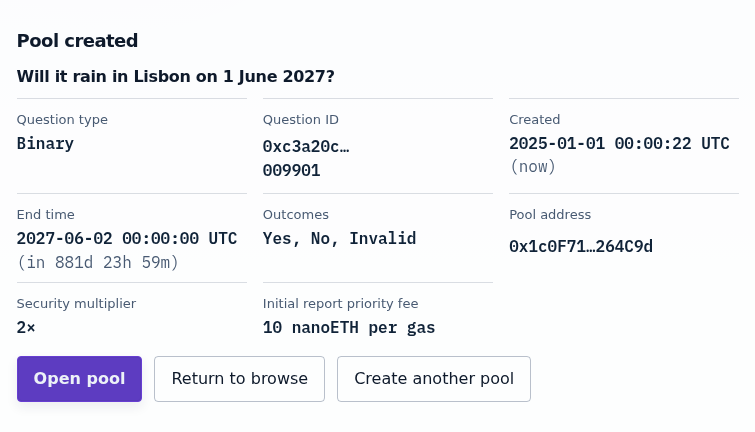
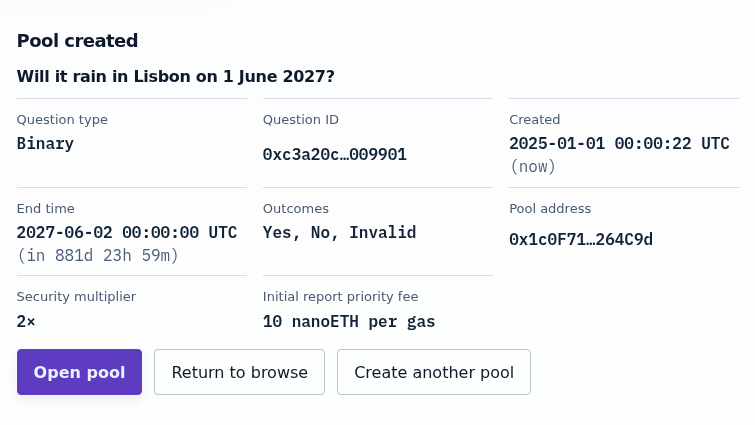
Show full UI addresses whenever space allows

diff --git a/ui/coreShared/ts/components/AddressValue.tsx b/ui/coreShared/ts/components/AddressValue.tsx
@@ -15,8 +15,6 @@ export type AddressWidthConstraint = {
 
 type AddressValueProps = {
 	address: string | undefined
-	/** Always shows the abbreviated form, for addresses inline in running text where the responsive form's reserved full width would leave a gap. The full address stays in the title and copy label. */
-	alwaysAbbreviated?: boolean
 	className?: string
 	compactAbbreviation?: boolean
 	copyable?: boolean
@@ -24,7 +22,7 @@ type AddressValueProps = {
 	widthConstraint?: AddressWidthConstraint | undefined
 }
 
-function AddressText({ address, alwaysAbbreviated, compactAbbreviation, responsiveAbbreviation, widthConstraint }: { address: string; alwaysAbbreviated: boolean; compactAbbreviation: boolean; responsiveAbbreviation: boolean; widthConstraint?: AddressWidthConstraint | undefined }) {
+function AddressText({ address, compactAbbreviation, responsiveAbbreviation, widthConstraint }: { address: string; compactAbbreviation: boolean; responsiveAbbreviation: boolean; widthConstraint?: AddressWidthConstraint | undefined }) {
 	const container = useRef<HTMLSpanElement>(null)
 	const full = useRef<HTMLSpanElement>(null)
 	const [abbreviated, setAbbreviated] = useState(false)
@@ -47,7 +45,6 @@ function AddressText({ address, alwaysAbbreviated, compactAbbreviation, responsi
 		if (widthConstraint?.control.current) observer.observe(widthConstraint.control.current)
 		return () => observer.disconnect()
 	}, [address, responsiveAbbreviation, widthConstraint])
-	if (alwaysAbbreviated) return <>{compactAbbreviation ? abbreviateAddress(address, 6, 4) : abbreviateAddress(address)}</>
 	if (!responsiveAbbreviation) return <>{address}</>
 	return (
 		<span className={`address-value-text${widthConstraint === undefined ? '' : ' address-value-fit-content'}`} data-abbreviated={abbreviated} ref={container}>
@@ -61,7 +58,7 @@ function AddressText({ address, alwaysAbbreviated, compactAbbreviation, responsi
 	)
 }
 
-export function ReadOnlyAddressValue({ address, alwaysAbbreviated = false, className = '', compactAbbreviation = false, responsiveAbbreviation = true, widthConstraint }: Omit<AddressValueProps, 'copyable'>) {
+export function ReadOnlyAddressValue({ address, className = '', compactAbbreviation = false, responsiveAbbreviation = true, widthConstraint }: Omit<AddressValueProps, 'copyable'>) {
 	if (address === undefined) {
 		const placeholder = getMetricPlaceholderPresentation(address)?.placeholder
 		return (
@@ -72,15 +69,15 @@ export function ReadOnlyAddressValue({ address, alwaysAbbreviated = false, class
 	}
 	return (
 		<span className={`address-value ${className}`} title={address}>
-			<AddressText address={address} alwaysAbbreviated={alwaysAbbreviated} compactAbbreviation={compactAbbreviation} responsiveAbbreviation={responsiveAbbreviation} widthConstraint={widthConstraint} />
+			<AddressText address={address} compactAbbreviation={compactAbbreviation} responsiveAbbreviation={responsiveAbbreviation} widthConstraint={widthConstraint} />
 		</span>
 	)
 }
 
-export function AddressValue({ address, alwaysAbbreviated = false, className = '', compactAbbreviation = false, copyable = true, responsiveAbbreviation = true, widthConstraint }: AddressValueProps) {
+export function AddressValue({ address, className = '', compactAbbreviation = false, copyable = true, responsiveAbbreviation = true, widthConstraint }: AddressValueProps) {
 	const { copied, copyError, copyErrorId, copyText } = useCopyToClipboard(address)
 
-	if (address === undefined || !copyable) return <ReadOnlyAddressValue address={address} alwaysAbbreviated={alwaysAbbreviated} className={className} compactAbbreviation={compactAbbreviation} responsiveAbbreviation={responsiveAbbreviation} widthConstraint={widthConstraint} />
+	if (address === undefined || !copyable) return <ReadOnlyAddressValue address={address} className={className} compactAbbreviation={compactAbbreviation} responsiveAbbreviation={responsiveAbbreviation} widthConstraint={widthConstraint} />
 
 	return (
 		<span className='copy-value-wrap'>
@@ -90,7 +87,7 @@ export function AddressValue({ address, alwaysAbbreviated = false, className = '
 						{commonCopy.copiedAddress}
 					</span>
 				) : (
-					<AddressText address={address} alwaysAbbreviated={alwaysAbbreviated} compactAbbreviation={compactAbbreviation} responsiveAbbreviation={responsiveAbbreviation} widthConstraint={widthConstraint} />
+					<AddressText address={address} compactAbbreviation={compactAbbreviation} responsiveAbbreviation={responsiveAbbreviation} widthConstraint={widthConstraint} />
 				)}
 			</button>
 			<CopyErrorMessage id={copyErrorId} manualValue={address} message={copyError.value} />

diff --git a/ui/statoblastShared/css/index.css b/ui/statoblastShared/css/index.css
@@ -3416,22 +3416,6 @@ span.rep-price-status.stale,
 	text-decoration: none;
 }
 
-.created-pool-summary .address-value-full {
-	display: none;
-}
-
-/* The summary always shows the short form, so it must also override the base rule that hides it until measurement
-   chooses abbreviation; otherwise neither form is visible. */
-.created-pool-summary .address-value-abbreviated {
-	display: inline;
-	visibility: visible;
-}
-
-/* Its measurement box is sized for the hidden full form, so let the short form show whole. */
-.created-pool-summary .address-value-text {
-	overflow: visible;
-}
-
 .existing-pool-identifiers {
 	display: grid;
 	grid-template-columns: repeat(2, minmax(0, 1fr));
@@ -3461,14 +3445,6 @@ span.rep-price-status.stale,
 @media (max-width: 40rem) {
 	.existing-pool-identifiers {
 		grid-template-columns: minmax(0, 1fr);
-	}
-
-	.existing-pool-identifiers .address-value-full {
-		display: none;
-	}
-
-	.existing-pool-identifiers .address-value-abbreviated {
-		display: inline;
 	}
 }
 
@@ -3866,9 +3842,10 @@ span.rep-price-status.stale,
 	}
 }
 
-/* Copyable addresses and identifiers keep their hover padding outside the text column, so their first character lines up with the labels and values around them. Addresses inline in running text have no hover padding to offset. */
+/* Keep hover padding outside the text column. Balance the negative start margin so the copy wrapper reserves the full control width instead of needlessly abbreviating its address. Inline addresses have no hover padding to offset. */
 :is(.route-view-flow, .modal-panel) :is(.address-value, .identifier-value).copyable:not(.transaction-object-context *, .global-transaction-detail-text *) {
 	margin-inline-start: -0.25rem;
+	margin-inline-end: 0.25rem;
 }
 
 /* Inline warnings (a clamped liquidation, a withdrawal that empties the vault, a lifecycle blocker) share one quiet warning treatment. */
@@ -3998,7 +3975,7 @@ span.rep-price-status.stale,
 	align-self: start;
 }
 
-/* Security pool UX fixes: next-action buttons, vault liquidation reasons, and the abbreviated vault address. */
+/* Security pool UX fixes: next-action buttons and vault liquidation reasons. */
 .pool-action-open {
 	display: inline-flex;
 	align-items: center;
@@ -4011,9 +3988,4 @@ span.rep-price-status.stale,
 
 .vault-position-strip-actions .vault-liquidation-reason {
 	margin-top: var(--space-2);
-}
-
-/* The record names the vault by its abbreviated address; the copy button still copies the full address. */
-.selected-vault-address .address-value {
-	max-width: min(100%, 12rem);
 }

diff --git a/ui/coreShared/ts/components/TransactionPresentationNotice.tsx b/ui/coreShared/ts/components/TransactionPresentationNotice.tsx
@@ -1,6 +1,7 @@
 import * as commonCopy from '../copy/common.js'
 import * as transactionCopy from '../copy/transaction.js'
-import type { ComponentChildren } from 'preact'
+import type { ComponentChildren, RefObject } from 'preact'
+import { useMemo, useRef } from 'preact/hooks'
 import { Badge } from './Badge.js'
 import { ReadOnlyDetailAccordion } from './ReadOnlyDetailAccordion.js'
 import { TransactionHashLink } from './TransactionHashLink.js'
@@ -37,7 +38,7 @@ function parseAddressDetailValue(value: ComponentChildren) {
 
 const embeddedAddressPattern = /(0x[0-9a-fA-F]{40})(?![0-9a-fA-F])/
 
-/** Splits text such as a call's argument list so each embedded address abbreviates in place instead of wrapping into a narrow column. */
+/** Splits a call's argument list so embedded addresses use the shared responsive presentation. */
 function splitEmbeddedAddresses(value: string) {
 	return value
 		.split(embeddedAddressPattern)
@@ -45,10 +46,25 @@ function splitEmbeddedAddresses(value: string) {
 		.map(segment => ({ isAddress: /^0x[0-9a-fA-F]{40}$/.test(segment), segment }))
 }
 
+function TransactionDetailAddress({ address, slot }: { address: string; slot: RefObject<HTMLElement> }) {
+	const control = useRef<HTMLSpanElement>(null)
+	const widthConstraint = useMemo(() => ({ slot, control }), [slot, control])
+	return (
+		<span className='global-transaction-detail-address' ref={control}>
+			<AddressValue address={address} widthConstraint={widthConstraint} />
+		</span>
+	)
+}
+
 function TransactionDetailText({ value }: { value: string }) {
+	const slot = useRef<HTMLSpanElement>(null)
 	const segments = splitEmbeddedAddresses(value)
 	if (!segments.some(({ isAddress }) => isAddress)) return <>{value}</>
-	return <span className='global-transaction-detail-text'>{segments.map(({ isAddress, segment }, index) => (isAddress ? <AddressValue key={index} address={segment} alwaysAbbreviated /> : <span key={index}>{segment}</span>))}</span>
+	return (
+		<span className='global-transaction-detail-text' ref={slot}>
+			{segments.map(({ isAddress, segment }, index) => (isAddress ? <TransactionDetailAddress key={index} address={segment} slot={slot} /> : <span key={index}>{segment}</span>))}
+		</span>
+	)
 }
 
 function TransactionDetailValue({ value }: { value: ComponentChildren }) {

diff --git a/ui/statoblast/ts/tests/app/globalTransactionDialog.test.tsx b/ui/statoblast/ts/tests/app/globalTransactionDialog.test.tsx
@@ -484,7 +484,7 @@ describe('GlobalTransactionDialog', () => {
 		expect(within(document.body).getByText('Arguments').nextElementSibling?.querySelector('.global-transaction-identifier-label')).toBeNull()
 	})
 
-	test('abbreviates each address inside an argument list and lists call data in one full-width column', async () => {
+	test('shows each address responsively inside an argument list and lists call data in one full-width column', async () => {
 		const poolAddress = '0x11cBa4f7B4e4B66702FC3bF4d1cB5815AC030149'
 		const renderedComponent = await renderIntoDocument(
 			<GlobalTransactionDialog
@@ -506,12 +506,13 @@ describe('GlobalTransactionDialog', () => {
 			.getAllByText('Arguments')
 			.map(label => label.nextElementSibling)
 		if (addressArguments === null || addressArguments === undefined) throw new Error('Missing argument list value')
-		// The address abbreviates in place, so the next argument follows it directly instead of after a reserved full-width gap.
-		expect(addressArguments.textContent).toBe('0x11cBa4…030149, 1')
+		// Embedded addresses use the same measured full-or-short presentation as standalone addresses.
+		expect(addressArguments.querySelector('.address-value-full')?.textContent).toBe(poolAddress)
+		expect(addressArguments.querySelector('.address-value-text')?.getAttribute('data-abbreviated')).toBe('false')
 		const argumentAddress = addressArguments.querySelector('.address-value')
 		expect(argumentAddress?.getAttribute('title')).toBe(poolAddress)
 		expect(argumentAddress?.getAttribute('aria-label')).toBe(`Copy address ${poolAddress}`)
-		expect(argumentAddress?.querySelector('.address-value-full')).toBeNull()
+		expect(argumentAddress?.querySelector('.address-value-full')?.textContent).toBe(poolAddress)
 		expect(addressArguments.querySelector('.global-transaction-detail-text')).not.toBeNull()
 		expect(plainArguments?.textContent).toBe('1, {title: Will this resolve?}')
 		expect(plainArguments?.querySelector('.address-value')).toBeNull()

diff --git a/docs/tutorials/statoblast-first-pool.html b/docs/tutorials/statoblast-first-pool.html
@@ -33,7 +33,7 @@
 				</figure>
 				<p>The confirmation card lists the new question and pool. Select <strong>Open pool</strong>.</p>
 				<figure class="screenshot" id="fig-statoblast-pool-created" aria-labelledby="fig-statoblast-pool-created-caption">
-					<a class="screenshot-link" href="../assets/screenshots/statoblast/pool-created.png"><img width="755" height="432" src="../assets/screenshots/statoblast/pool-created.png" alt="The Pool created card for Will it rain in Lisbon on 1 June 2027?, listing question type Binary, the question ID, end time, outcomes Yes, No, and Invalid, the pool address, security multiplier 2, and an Open pool button." loading="lazy" /></a>
+					<a class="screenshot-link" href="../assets/screenshots/statoblast/pool-created.png"><img width="755" height="425" src="../assets/screenshots/statoblast/pool-created.png" alt="The Pool created card for Will it rain in Lisbon on 1 June 2027?, listing question type Binary, the question ID, end time, outcomes Yes, No, and Invalid, the pool address, security multiplier 2, and an Open pool button." loading="lazy" /></a>
 					<figcaption id="fig-statoblast-pool-created-caption"><span class="figure-label">The new pool.</span> One transaction created both the Zoltar question and its SecurityPool.</figcaption>
 				</figure>
 			</section>

diff --git a/ui/coreShared/ts/tests/addressValue.test.tsx b/ui/coreShared/ts/tests/addressValue.test.tsx
@@ -139,13 +139,13 @@ describe('AddressValue', () => {
 		expect(copyButton.getAttribute('title')).toBe(address)
 	})
 
-	test('always abbreviates an inline address without reserving the full width, while keeping the complete copy target', async () => {
+	test('shows the full inline address when it fits, while keeping the complete copy target', async () => {
 		const address = '0x1234567890abcdef1234567890abcdef12345678'
-		const renderedComponent = await renderIntoDocument(<AddressValue address={address} alwaysAbbreviated />)
+		const renderedComponent = await renderIntoDocument(<AddressValue address={address} />)
 		cleanupRenderedComponent = renderedComponent.cleanup
 		const copyButton = within(document.body).getByRole('button', { name: `Copy address ${address}` })
-		expect(copyButton.textContent).toBe('0x123456…345678')
-		expect(copyButton.querySelector('.address-value-full')).toBeNull()
+		expect(copyButton.querySelector('.address-value-full')?.textContent).toBe(address)
+		expect(copyButton.querySelector('.address-value-text')?.getAttribute('data-abbreviated')).toBe('false')
 		expect(copyButton.getAttribute('title')).toBe(address)
 		await act(() => fireEvent.click(copyButton))
 		await waitFor(() => expect(copyButton.textContent).toBe('Copied address'))

diff --git a/ui/coreShared/css/protocol-surfaces.css b/ui/coreShared/css/protocol-surfaces.css
@@ -706,11 +706,21 @@ main:has(.global-transaction-dialog-nonblocking) #app-content {
 	grid-template-columns: minmax(0, 1fr);
 }
 
-/* Text with embedded addresses flows inline and wraps between values, never inside an abbreviated address.
+.global-transaction-detail-text {
+	display: block;
+}
+
+.global-transaction-detail-address {
+	display: inline-flex;
+	max-width: 100%;
+	vertical-align: baseline;
+}
+
+/* Text with embedded addresses flows inline and wraps between values; addresses shorten only when they cannot fit.
  * An inline address sits on the text baseline like a link, so it drops the standalone control's touch-target box. */
 .global-transaction-detail-text .copy-value-wrap,
 .global-transaction-detail-text .address-value.copyable {
-	display: inline;
+	display: inline-flex;
 	min-height: 0;
 	margin: 0;
 	padding: 0;

diff --git a/ui/coreShared/css/controls-and-responsive.css b/ui/coreShared/css/controls-and-responsive.css
@@ -1054,12 +1054,6 @@ button.tx-action-wallet-fix {
 	background: transparent;
 }
 
-/* The toolbar names the account by its abbreviated address at every width, as the popover holds the full address.
- * Capping the slot makes the responsive address measurement abbreviate even when the toolbar has room to spare. */
-.header-toolbar-controls .account-menu {
-	max-width: 14rem;
-}
-
 .account-menu-trigger:hover,
 .account-menu-trigger[aria-expanded="true"] {
 	border-color: var(--interactive-border-hover);
